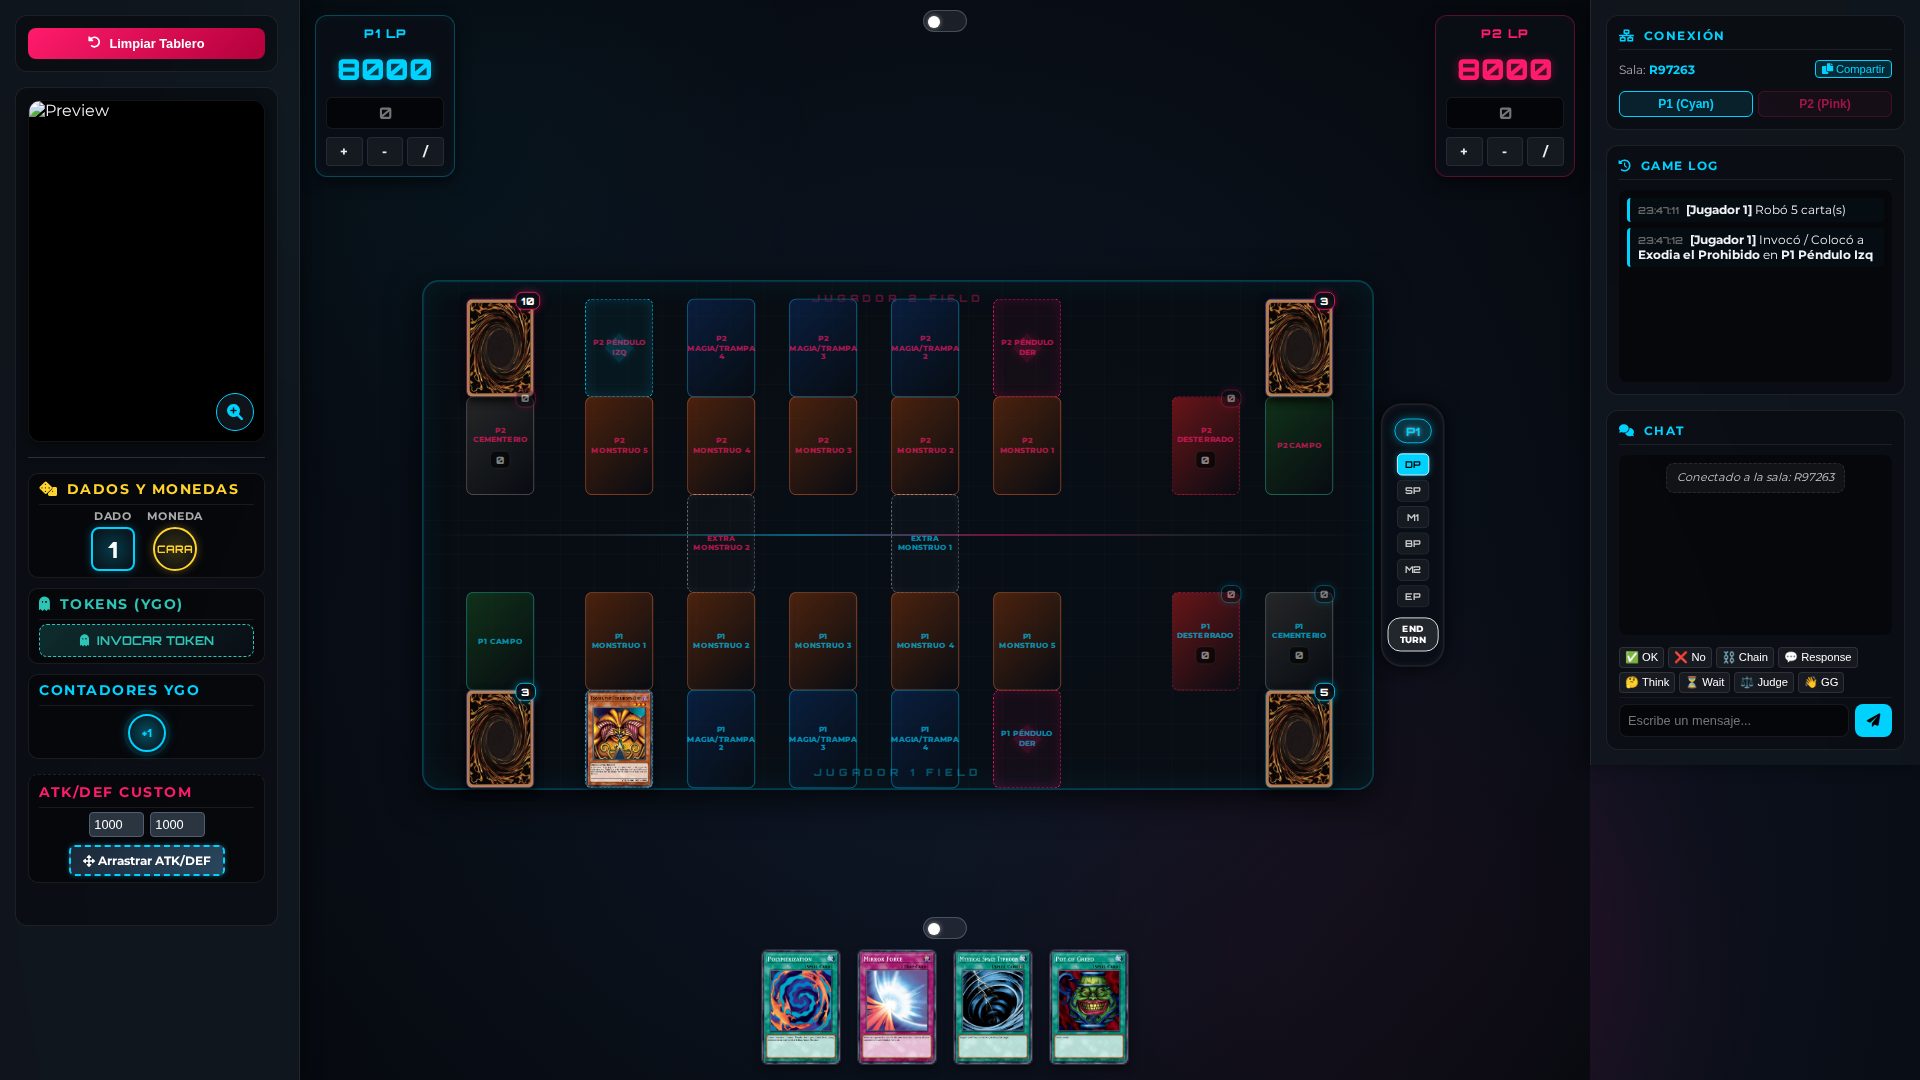
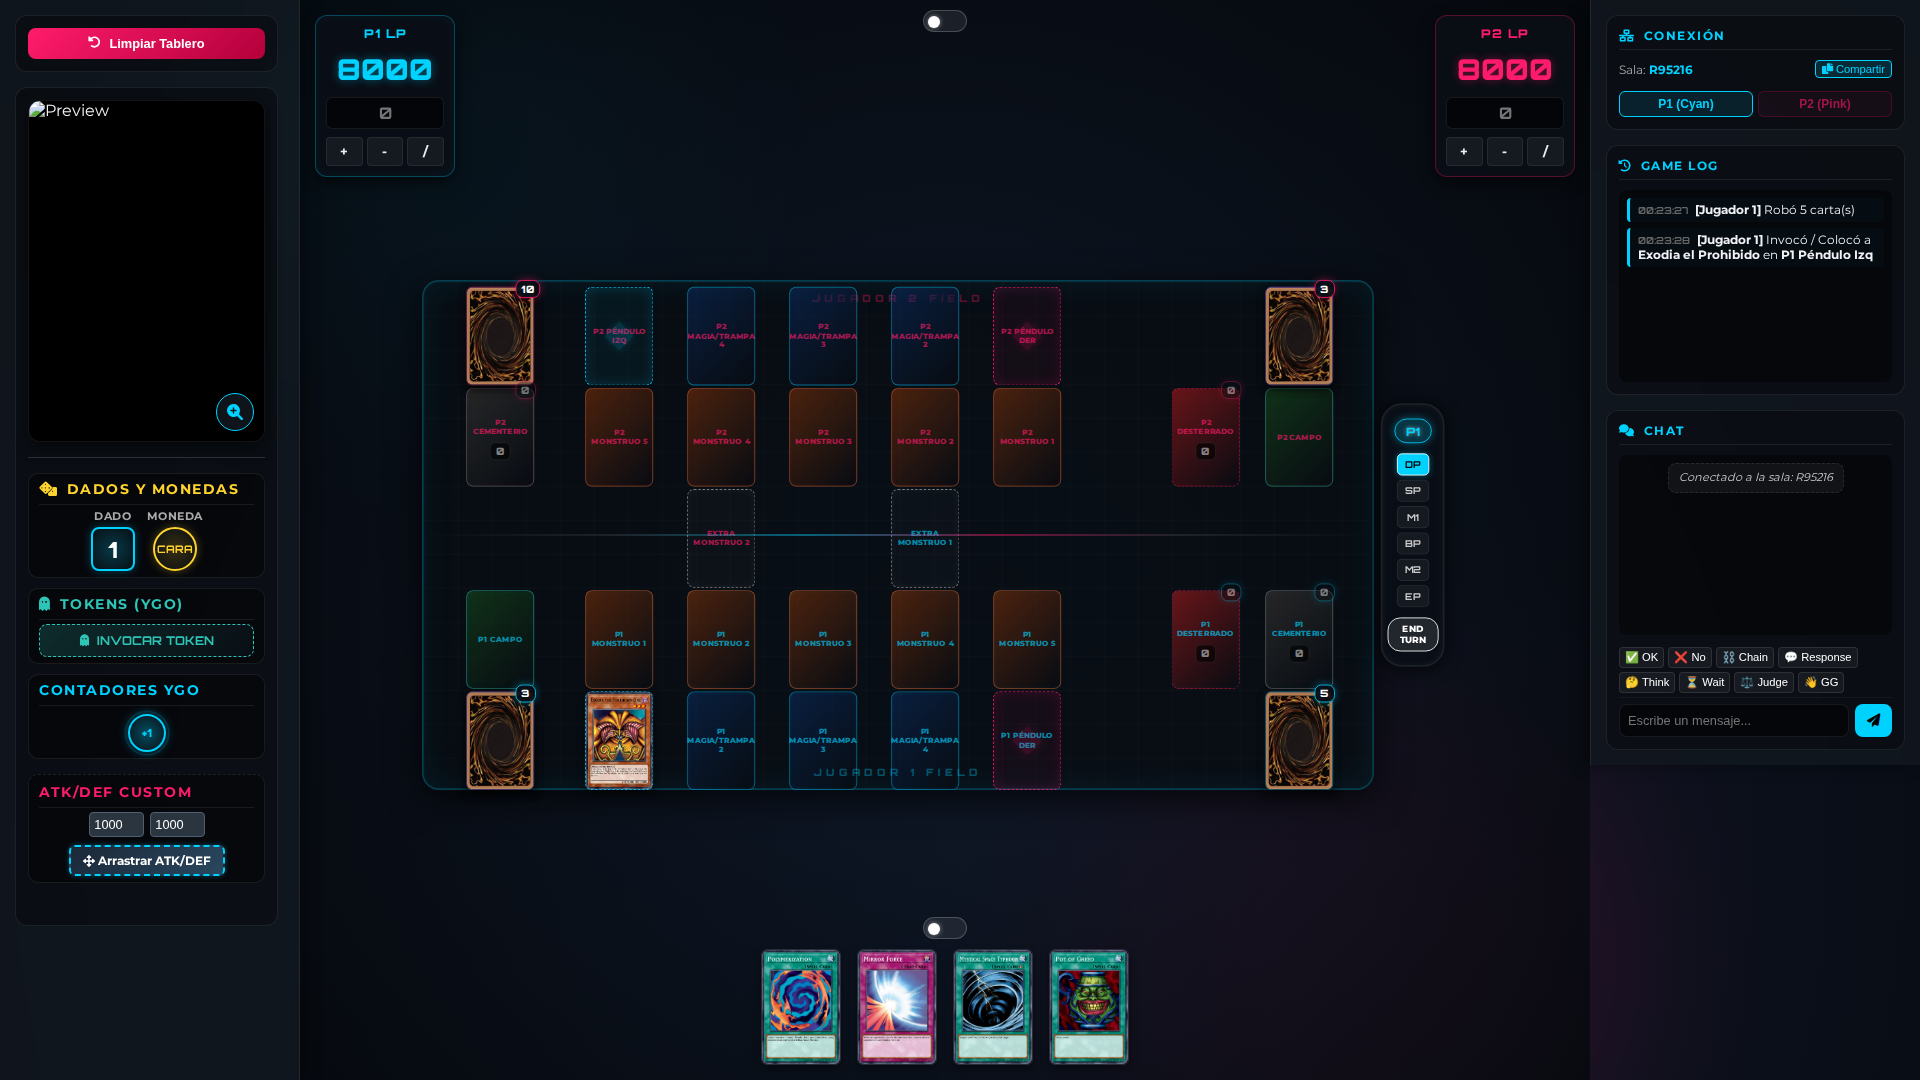
Refine Extra Monster Zone to act as on-field monster zone and adjust spacing symmetrically

diff --git a/docs/js/duel.js b/docs/js/duel.js
@@ -42,42 +42,42 @@ const BOARD_LAYOUTS = {
     ],
     yugioh_advanced: [
         // Player 2 (Top Half, Mirrored) - Red/Pink Theme
-        { id: "deck_2", name: "P2 Deck", player: 2, x: 50, y: 20, type: "deck" },
-        { id: "grave_2", name: "P2 Cementerio", player: 2, x: 50, y: 135, type: "grave" },
-        { id: "banished_2", name: "P2 Desterrado", player: 2, x: 880, y: 135, type: "banished" },
-        { id: "extra_2", name: "P2 Extra", player: 2, x: 990, y: 20, type: "extra" },
-        { id: "field_2", name: "P2 Campo", player: 2, x: 990, y: 135, type: "field" },
-        { id: "monster_2_5", name: "P2 Monstruo 5", player: 2, x: 190, y: 135, type: "monster" },
-        { id: "monster_2_4", name: "P2 Monstruo 4", player: 2, x: 310, y: 135, type: "monster" },
-        { id: "monster_2_3", name: "P2 Monstruo 3", player: 2, x: 430, y: 135, type: "monster" },
-        { id: "monster_2_2", name: "P2 Monstruo 2", player: 2, x: 550, y: 135, type: "monster" },
-        { id: "monster_2_1", name: "P2 Monstruo 1", player: 2, x: 670, y: 135, type: "monster" },
-        { id: "spell_2_5", name: "P2 Péndulo Izq", player: 2, x: 190, y: 20, type: "spell" },
-        { id: "spell_2_4", name: "P2 Magia/Trampa 4", player: 2, x: 310, y: 20, type: "spell" },
-        { id: "spell_2_3", name: "P2 Magia/Trampa 3", player: 2, x: 430, y: 20, type: "spell" },
-        { id: "spell_2_2", name: "P2 Magia/Trampa 2", player: 2, x: 550, y: 20, type: "spell" },
-        { id: "spell_2_1", name: "P2 Péndulo Der", player: 2, x: 670, y: 20, type: "spell" },
+        { id: "deck_2", name: "P2 Deck", player: 2, x: 50, y: 6, type: "deck" },
+        { id: "grave_2", name: "P2 Cementerio", player: 2, x: 50, y: 125, type: "grave" },
+        { id: "banished_2", name: "P2 Desterrado", player: 2, x: 880, y: 125, type: "banished" },
+        { id: "extra_2", name: "P2 Extra", player: 2, x: 990, y: 6, type: "extra" },
+        { id: "field_2", name: "P2 Campo", player: 2, x: 990, y: 125, type: "field" },
+        { id: "monster_2_5", name: "P2 Monstruo 5", player: 2, x: 190, y: 125, type: "monster" },
+        { id: "monster_2_4", name: "P2 Monstruo 4", player: 2, x: 310, y: 125, type: "monster" },
+        { id: "monster_2_3", name: "P2 Monstruo 3", player: 2, x: 430, y: 125, type: "monster" },
+        { id: "monster_2_2", name: "P2 Monstruo 2", player: 2, x: 550, y: 125, type: "monster" },
+        { id: "monster_2_1", name: "P2 Monstruo 1", player: 2, x: 670, y: 125, type: "monster" },
+        { id: "spell_2_5", name: "P2 Péndulo Izq", player: 2, x: 190, y: 6, type: "spell" },
+        { id: "spell_2_4", name: "P2 Magia/Trampa 4", player: 2, x: 310, y: 6, type: "spell" },
+        { id: "spell_2_3", name: "P2 Magia/Trampa 3", player: 2, x: 430, y: 6, type: "spell" },
+        { id: "spell_2_2", name: "P2 Magia/Trampa 2", player: 2, x: 550, y: 6, type: "spell" },
+        { id: "spell_2_1", name: "P2 Péndulo Der", player: 2, x: 670, y: 6, type: "spell" },
 
         // Shared Extra Monster Zones placed in the middle
-        { id: "extra_monster_2", name: "Extra Monstruo 2", player: 2, x: 310, y: 250, type: "monster" },
-        { id: "extra_monster_1", name: "Extra Monstruo 1", player: 1, x: 550, y: 250, type: "monster" },
+        { id: "extra_monster_2", name: "Extra Monstruo 2", player: 2, x: 310, y: 244, type: "monster" },
+        { id: "extra_monster_1", name: "Extra Monstruo 1", player: 1, x: 550, y: 244, type: "monster" },
 
         // Player 1 (Bottom Half) - Blue Theme
-        { id: "extra_1", name: "P1 Extra", player: 1, x: 50, y: 480, type: "extra" },
-        { id: "field_1", name: "P1 Campo", player: 1, x: 50, y: 365, type: "field" },
-        { id: "banished_1", name: "P1 Desterrado", player: 1, x: 880, y: 365, type: "banished" },
-        { id: "deck_1", name: "P1 Deck", player: 1, x: 990, y: 480, type: "deck" },
-        { id: "grave_1", name: "P1 Cementerio", player: 1, x: 990, y: 365, type: "grave" },
-        { id: "monster_1_1", name: "P1 Monstruo 1", player: 1, x: 190, y: 365, type: "monster" },
-        { id: "monster_1_2", name: "P1 Monstruo 2", player: 1, x: 310, y: 365, type: "monster" },
-        { id: "monster_1_3", name: "P1 Monstruo 3", player: 1, x: 430, y: 365, type: "monster" },
-        { id: "monster_1_4", name: "P1 Monstruo 4", player: 1, x: 550, y: 365, type: "monster" },
-        { id: "monster_1_5", name: "P1 Monstruo 5", player: 1, x: 670, y: 365, type: "monster" },
-        { id: "spell_1_1", name: "P1 Péndulo Izq", player: 1, x: 190, y: 480, type: "spell" },
-        { id: "spell_1_2", name: "P1 Magia/Trampa 2", player: 1, x: 310, y: 480, type: "spell" },
-        { id: "spell_1_3", name: "P1 Magia/Trampa 3", player: 1, x: 430, y: 480, type: "spell" },
-        { id: "spell_1_4", name: "P1 Magia/Trampa 4", player: 1, x: 550, y: 480, type: "spell" },
-        { id: "spell_1_5", name: "P1 Péndulo Der", player: 1, x: 670, y: 480, type: "spell" }
+        { id: "extra_1", name: "P1 Extra", player: 1, x: 50, y: 482, type: "extra" },
+        { id: "field_1", name: "P1 Campo", player: 1, x: 50, y: 363, type: "field" },
+        { id: "banished_1", name: "P1 Desterrado", player: 1, x: 880, y: 363, type: "banished" },
+        { id: "deck_1", name: "P1 Deck", player: 1, x: 990, y: 482, type: "deck" },
+        { id: "grave_1", name: "P1 Cementerio", player: 1, x: 990, y: 363, type: "grave" },
+        { id: "monster_1_1", name: "P1 Monstruo 1", player: 1, x: 190, y: 363, type: "monster" },
+        { id: "monster_1_2", name: "P1 Monstruo 2", player: 1, x: 310, y: 363, type: "monster" },
+        { id: "monster_1_3", name: "P1 Monstruo 3", player: 1, x: 430, y: 363, type: "monster" },
+        { id: "monster_1_4", name: "P1 Monstruo 4", player: 1, x: 550, y: 363, type: "monster" },
+        { id: "monster_1_5", name: "P1 Monstruo 5", player: 1, x: 670, y: 363, type: "monster" },
+        { id: "spell_1_1", name: "P1 Péndulo Izq", player: 1, x: 190, y: 482, type: "spell" },
+        { id: "spell_1_2", name: "P1 Magia/Trampa 2", player: 1, x: 310, y: 482, type: "spell" },
+        { id: "spell_1_3", name: "P1 Magia/Trampa 3", player: 1, x: 430, y: 482, type: "spell" },
+        { id: "spell_1_4", name: "P1 Magia/Trampa 4", player: 1, x: 550, y: 482, type: "spell" },
+        { id: "spell_1_5", name: "P1 Péndulo Der", player: 1, x: 670, y: 482, type: "spell" }
     ],
     pokemon: [
         // Player 2 (Top Half, Mirrored) - Red/Pink Theme
@@ -472,7 +472,7 @@ function renderAllCards() {
         const isHand = card.zone.startsWith("hand_");
 
         // Count cards in piles
-        const isPile = card.zone.startsWith("deck_") || card.zone.startsWith("grave_") || card.zone.startsWith("banished_") || card.zone.startsWith("extra_");
+        const isPile = card.zone.startsWith("deck_") || card.zone.startsWith("grave_") || card.zone.startsWith("banished_") || (card.zone.startsWith("extra_") && !card.zone.startsWith("extra_monster"));
         if (isPile) {
             zoneCounts[card.zone] = (zoneCounts[card.zone] || 0) + 1;
         }
@@ -1031,7 +1031,7 @@ $(window).on('mouseup touchend', function(e) {
 
         // This is a click!
         // Toggle tilt on cardObj if it's on the field (not in hand, deck, extra, grave, banished)
-        const isField = !cardObj.zone.startsWith("hand_") && !cardObj.zone.startsWith("deck_") && !cardObj.zone.startsWith("extra_") && !cardObj.zone.startsWith("grave_") && !cardObj.zone.startsWith("banished_");
+        const isField = !cardObj.zone.startsWith("hand_") && !cardObj.zone.startsWith("deck_") && !(cardObj.zone.startsWith("extra_") && !cardObj.zone.startsWith("extra_monster")) && !cardObj.zone.startsWith("grave_") && !cardObj.zone.startsWith("banished_");
         if (isField) {
             // Check if this card has attached cards!
             const hasAttached = state.cards.some(c => c.attachedTo === cardObj.instanceId);
@@ -1062,7 +1062,7 @@ $(window).on('mouseup touchend', function(e) {
 
         // Token specific check: delete if dragged out of active field
         if (cardObj.isToken) {
-            if (isOverP1Hand || isOverP2Hand || (hoverZone && (hoverZone.id.startsWith("deck_") || hoverZone.id.startsWith("extra_") || hoverZone.id.startsWith("grave_") || hoverZone.id.startsWith("banished_")))) {
+            if (isOverP1Hand || isOverP2Hand || (hoverZone && (hoverZone.id.startsWith("deck_") || (hoverZone.id.startsWith("extra_") && !hoverZone.id.startsWith("extra_monster")) || hoverZone.id.startsWith("grave_") || hoverZone.id.startsWith("banished_")))) {
                 state.cards = state.cards.filter(c => c.instanceId !== cardObj.instanceId);
                 if (typeof sendGameAction === "function") {
                     sendGameAction(`Desapareció Token: ${cardObj.name} al salir del campo`);
@@ -1169,7 +1169,7 @@ function findOverlappingCard(coords, excludeInstanceId) {
         !c.attachedTo &&
         !c.zone.startsWith("hand_") &&
         !c.zone.startsWith("deck_") &&
-        !c.zone.startsWith("extra_") &&
+        !(c.zone.startsWith("extra_") && !c.zone.startsWith("extra_monster")) &&
         !c.zone.startsWith("grave_") &&
         !c.zone.startsWith("banished_") &&
         !c.zone.startsWith("prize_")
@@ -1226,7 +1226,7 @@ function checkHandTrayHover(e, traySelector) {
 // Side info detailed previewer
 // SECURE ANTI-CHEAT preview system: masks details of face-down cards and deck piles
 function updatePreview(card) {
-    const isPile = card.zone.startsWith("deck_") || card.zone.startsWith("extra_") || card.zone.startsWith("prize_");
+    const isPile = card.zone.startsWith("deck_") || (card.zone.startsWith("extra_") && !card.zone.startsWith("extra_monster")) || card.zone.startsWith("prize_");
     let isFaceDown = card.faceDown && !card.zone.startsWith("hand_");
 
     // Seteadas de mi lado (player1) en el campo se pueden ver en el preview
@@ -2337,7 +2337,7 @@ function setupEventListeners() {
         }
 
         // If card is inside an extra deck zone, open the Extra Deck overlay instead
-        if (cardObj.zone.startsWith("extra_")) {
+        if (cardObj.zone.startsWith("extra_") && !cardObj.zone.startsWith("extra_monster")) {
             e.preventDefault();
             e.stopPropagation();
             const playerKey = cardObj.zone === "extra_1" ? "player1" : "player2";
@@ -2433,7 +2433,7 @@ function setupEventListeners() {
                 left: `${e.clientX}px`,
                 top: `${e.clientY}px`
             }).addClass("active");
-        } else if (cardObj.zone.startsWith("extra_")) {
+        } else if (cardObj.zone.startsWith("extra_") && !cardObj.zone.startsWith("extra_monster")) {
             e.preventDefault();
             e.stopPropagation();
             const playerKey = cardObj.zone === "extra_1" ? "player1" : "player2";
